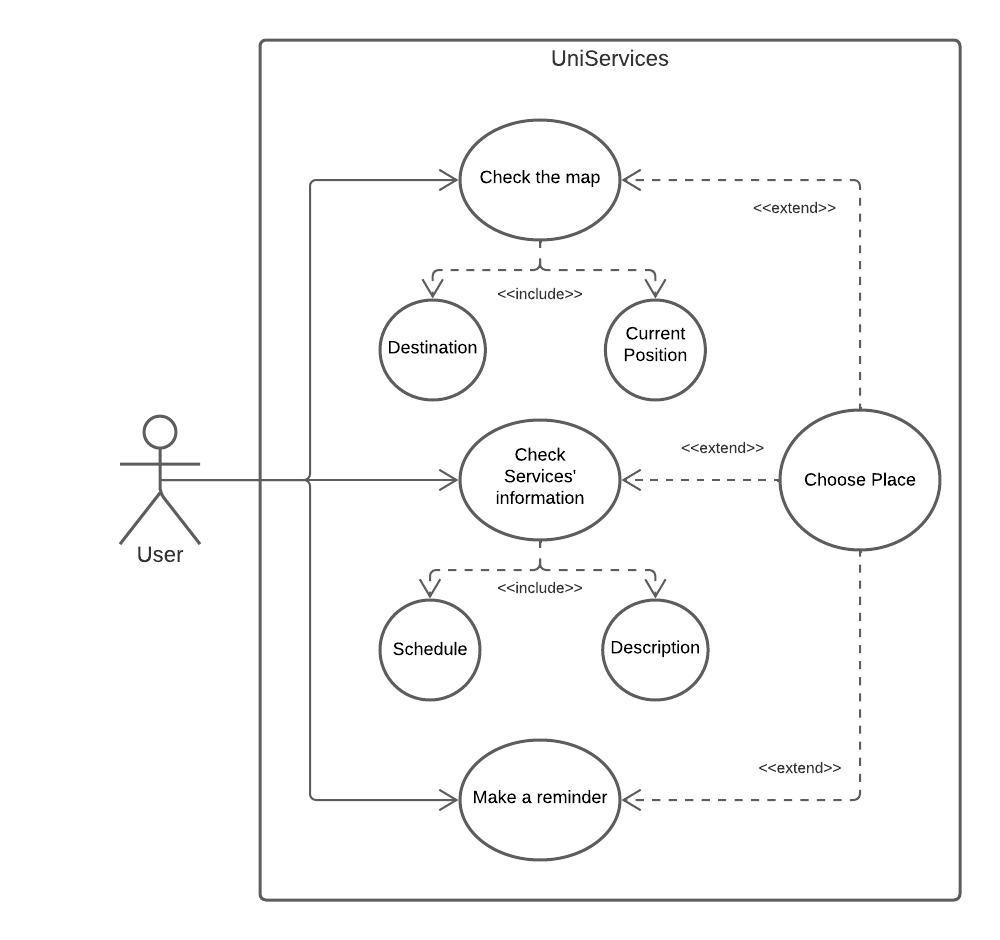
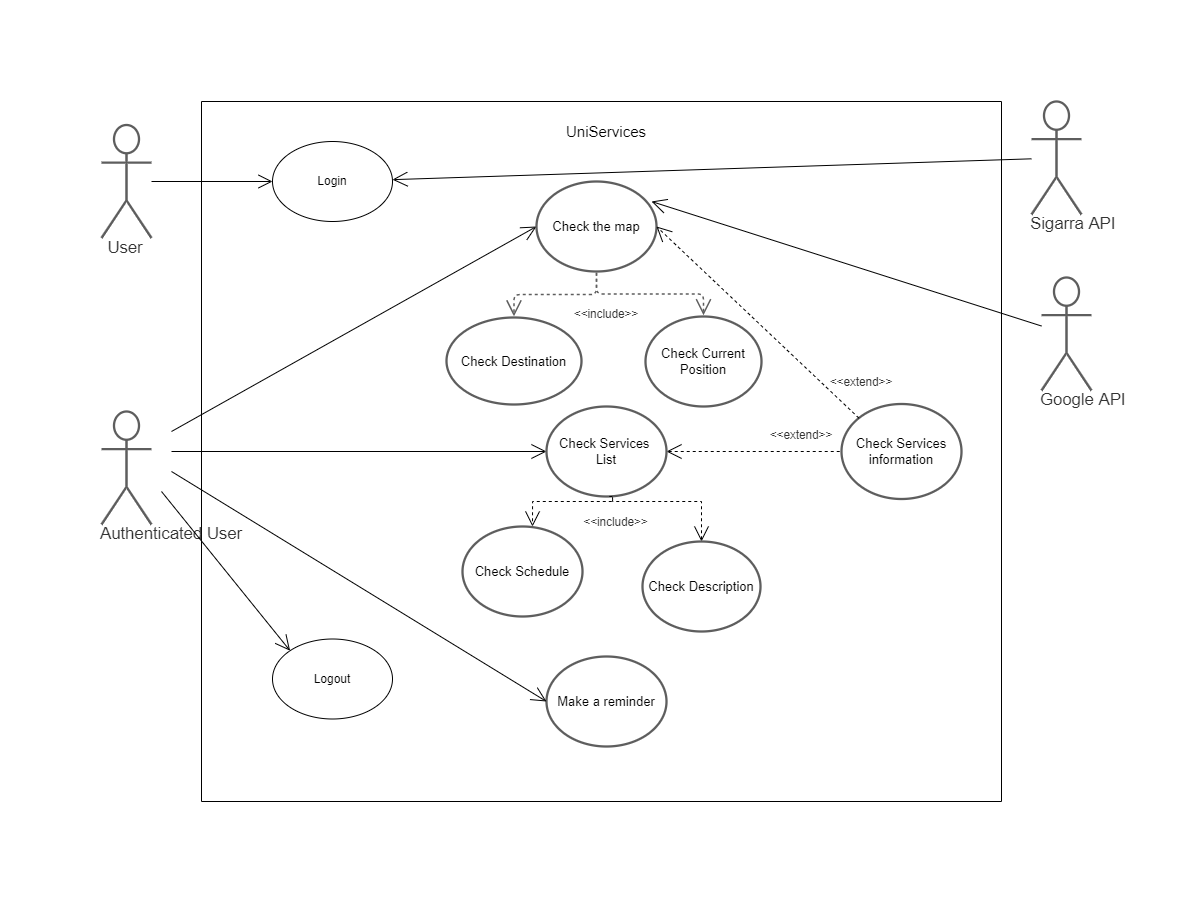
Use cases finished

diff --git a/docs/UseCases.md b/docs/UseCases.md
@@ -15,6 +15,16 @@
 
 |||
 | --- | --- |
+| *Name* | Login |
+| *Actor* |  Sigarra API | 
+| *Description* | The user's credentials are checked by this API |
+| *Preconditions* | - The user is a member of the university. |
+| *Postconditions* | - The user gets access to the app features. |
+| *Normal flow* | 1. The user opens the app.<br> 2. The system prompts the user with the username and password fields.<br> 3. The user types the credentials and they are checked <br> 4. The user logs in   |
+| *Alternative flows and exceptions* | [Login failure] If, in step 3 of the normal flow the login fails because of wrong credentials, the system warns the user and asks again for an input. |
+
+|||
+| --- | --- |
 | *Name* | Logout |
 | *Actor* |  Authenticated User | 
 | *Description* | The authenticated user logs out off the app. |
@@ -35,6 +45,17 @@
 
 |||
 | --- | --- |
+| *Name* | Check the map |
+| *Actor* |  Google API | 
+| *Description* | The map can be obtained trough the Google API |
+| *Preconditions* | - A user is logged in. |
+| *Postconditions* | - A authenticated user enters the map search/navigation menu |
+| *Normal flow* | 1. A authenticated user goes to the main menu. <br> 2. A authenticated user selects the map option. |
+| *Alternative flows and exceptions* | [Connection failure] If, in step 2 of the normal flow there are problems with the internet connection, the app won't be able to load the map, the system warns the user and returns to the main menu. |
+
+
+|||
+| --- | --- |
 | *Name* | Check the services list |
 | *Actor* |  Authenticated User | 
 | *Description* | The authenticated user opens the services list |
@@ -42,16 +63,6 @@
 | *Postconditions* | - The authenticated user enters the services list search menu |
 | *Normal flow* | 1. The authenticated user goes to the main menu. <br> 2. The authenticated user selects the services list option. |
 | *Alternative flows and exceptions* | *None* |
-
-|||
-| --- | --- |
-| *Name* | Service |
-| *Actor* |  Authenticated User | 
-| *Description* | The authenticated user checks the info about a service |
-| *Preconditions* | - The authenticated user is logged in. |
-| *Postconditions* | - The authenticated user enters the map search/navigation mode.specific service information menu. |
-| *Normal flow* | 1. The authenticated user goes to the main menu. <br><br> Either<br> 2. The authenticated user selects the map option.<br><t> 2.1. The autenticated user selects a service on the map, opening a small service summary <br> 2.2. The authenticated user opens the service information menu, whose link is in the small box <br> Or <br>3. The authenticated user selects the services list option.<br> 3.1 The authenticated user selects a service from the list of available options opening the service information menu.|
-| *Alternative flows and exceptions* | *None*
 
 |||
 | --- | --- |

diff --git a/docs/requirements.md b/docs/requirements.md
@@ -1,0 +1,3 @@
+# Use Cases 
+
+![Use cases](/images/ESOF.png)
